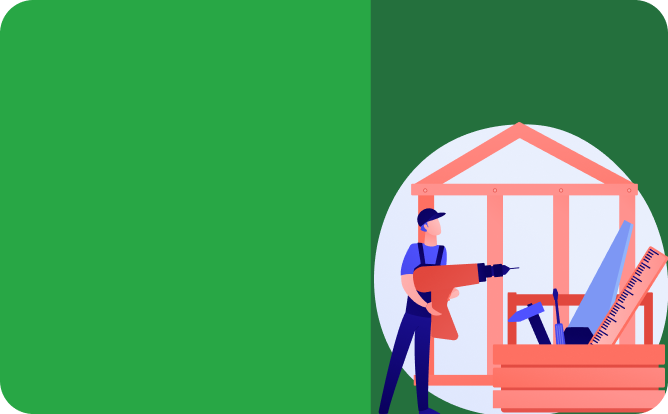
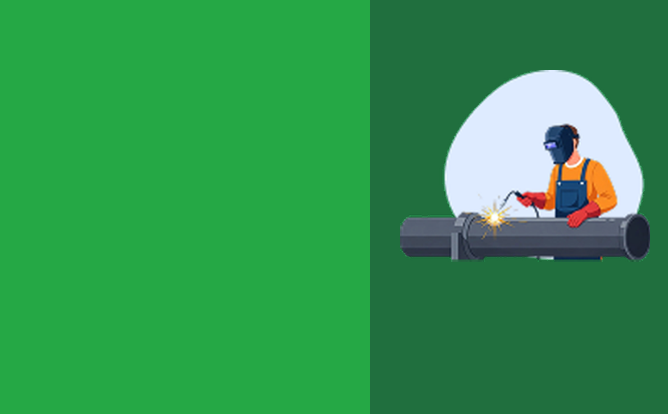
carousel image correlation

diff --git a/src/pages/Dashboard/sections/Homepage.jsx b/src/pages/Dashboard/sections/Homepage.jsx
@@ -16,6 +16,11 @@ import siren from "/siren.png";
 import new1 from "/new1.png";
 import new2 from "/new2.png";
 import new3 from "/new3.png";
+import new4 from "/new4.png";
+import new5 from "/new5.png";
+import new6 from "/new6.png";
+import new7 from "/new7.png";
+import new8 from "/new8.png";
 import { sendTestNotification } from "../../../api/fcm";
 import ComingSoonModal from "../../../components/dashboard/ComingSoonModal";
 import DashboardTour from "../../../components/tour/DashboardTour";
@@ -70,35 +75,35 @@ export default function DashboardHome() {
     {
       title: "Household Support",
       description: "Quick, dependable household assistance anytime.",
-      image: new1,
+      image: new4,
       bgColor: "#0054AE80",
       comingSoon: true,
     },
     {
       title: "Towing & Roadside",
       description: "Fast help for breakdowns and emergencies",
-      image: new2,
+      image: new5,
       bgColor: "#B100004D",
       comingSoon: true,
     },
     {
       title: "Legal & Financial",
       description: "Expert guidance for legal and financial needs",
-      image: new3,
+      image: new6,
       bgColor: "#4800D94D",
       comingSoon: true,
     },
     {
       title: "Plumbing",
       description: "Fast help for breakdowns and emergencies",
-      image: new1,
+      image: new7,
       bgColor: "#BF4A0B4D",
       comingSoon: true,
     },
     {
       title: "Digital Design",
       description: "Modern designs for web, brand, and media.",
-      image: new2,
+      image: new8,
       bgColor: "#A30B4B4D",
       comingSoon: true,
     },
